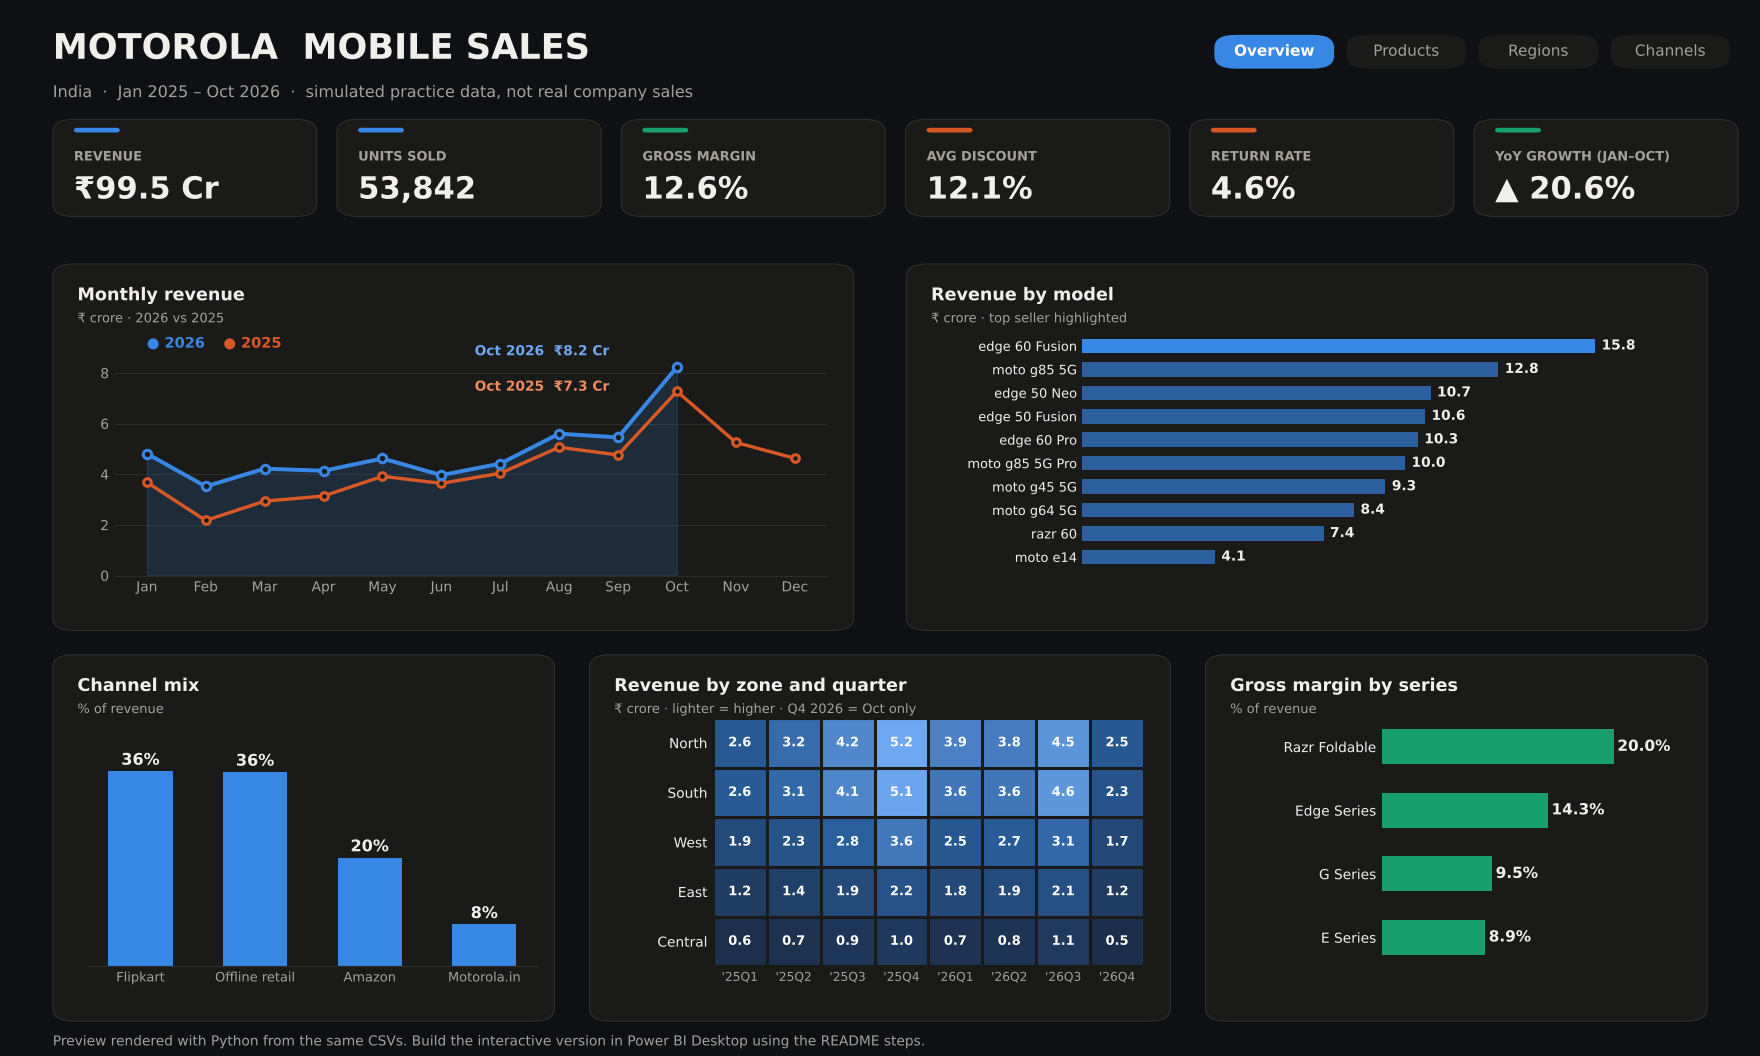
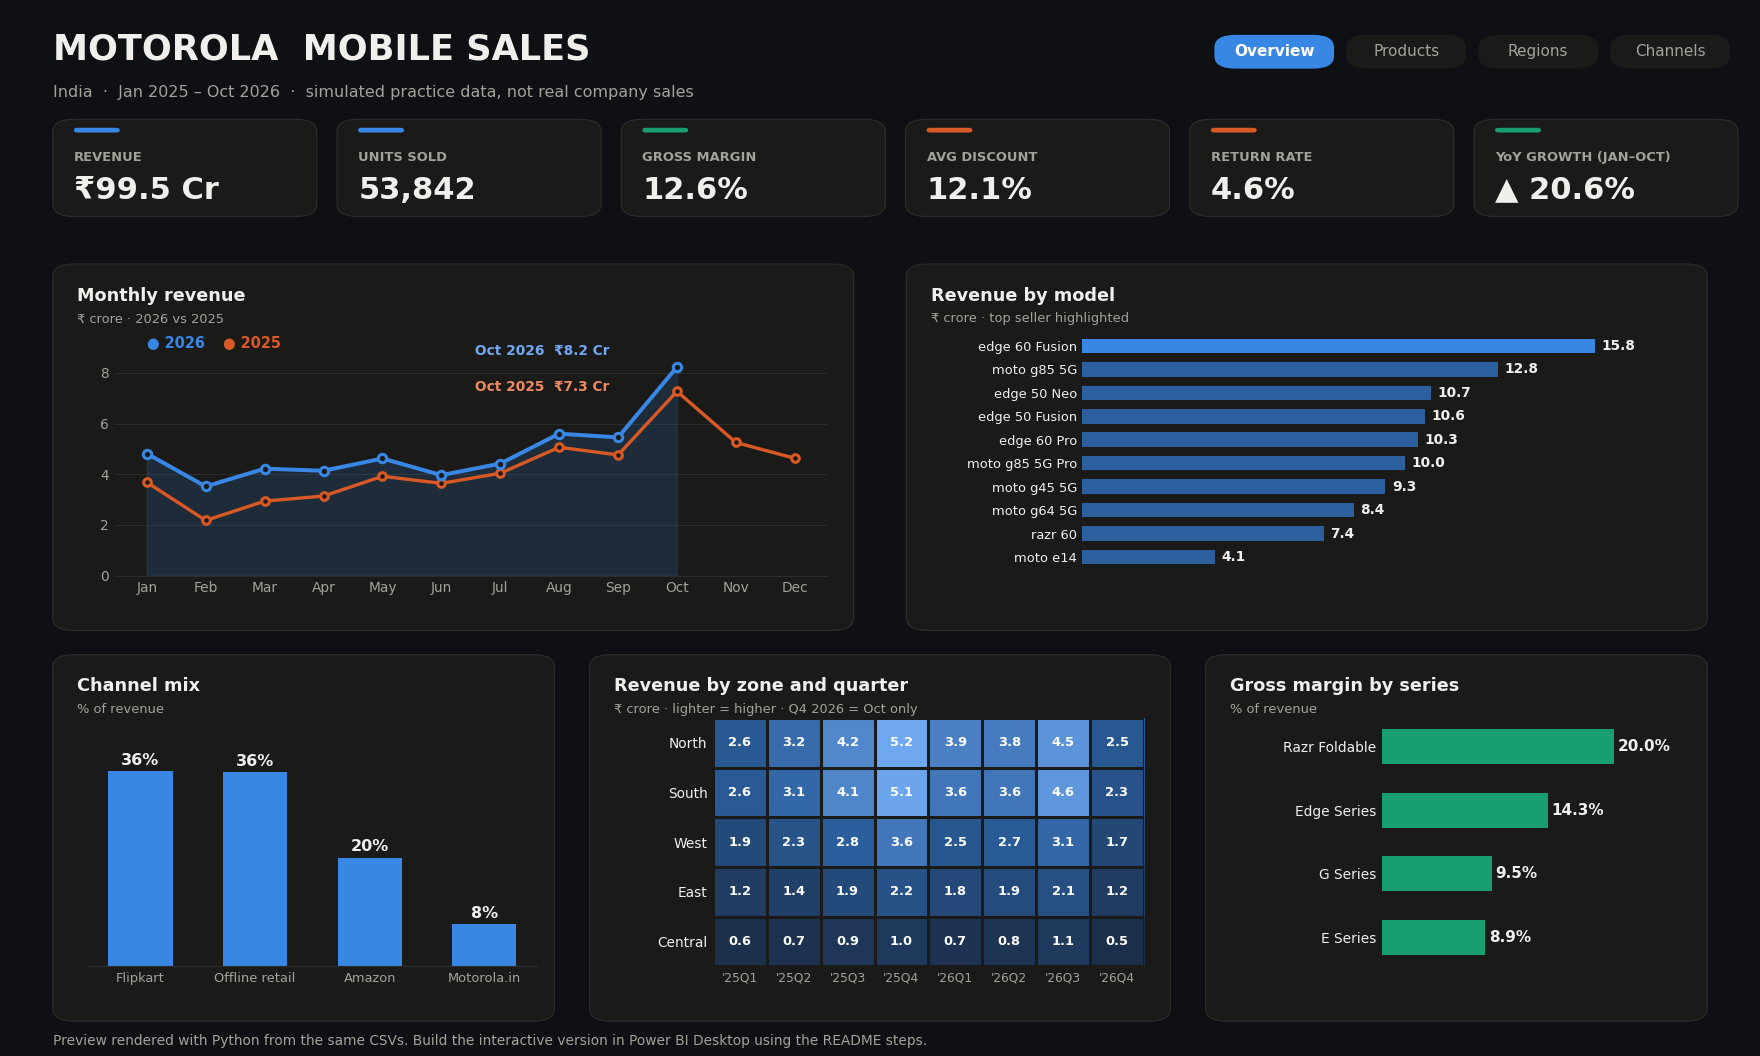
added in profile

diff --git a/README.md b/README.md
@@ -1,87 +1,88 @@
-# 📱 Motorola Mobile Sales Dashboard (Power BI)
+# 📊 Motorola Mobile Sales — Power BI Dashboard
 
-An interactive Power BI report that analyses smartphone sales across **models, regions, channels and time** for the Indian market: revenue, margin, discounting, returns and growth.
+A portfolio-ready **Power BI business intelligence project** exploring simulated smartphone sales across Indian states, product models, sales channels and time. The report is designed around executive KPIs, product performance, regional trends, pricing and returns.
 
-![Dashboard preview](docs/dashboard-preview.png)
+![Motorola Power BI dashboard preview](docs/dashboard-preview.png)
 
-> **Data note:** all data in this project is **simulated** for practice and portfolio use. It is generated by `generate_data.py` (fixed random seed, so results are repeatable). It is **not** real Motorola sales data, and model names, prices and launch dates are illustrative only. This project is not affiliated with or endorsed by Motorola.
+> **Important data disclosure:** this repository uses synthetic practice data generated by `generate_data.py`. It is not Motorola's actual sales, customer, inventory or operational data. Product names and commercial values are illustrative. This independent portfolio project is not affiliated with or endorsed by Motorola.
 
-## Business questions answered
-1. How is revenue, margin and unit volume trending, and how does this year compare with last year?
-2. Which models and series drive revenue and profit?
-3. Which regions and channels sell the most, and where do discounts and returns hurt margin?
-4. How strong is the festive-season (Oct) and sale-event (Jan / Aug) lift?
+## Dashboard pages
 
-## Key findings (from the simulated data)
-- **Revenue ₹99.5 Cr** over Jan 2025 – Oct 2026; **Jan–Oct 2026 is up 20.6%** on the same period of 2025.
-- **October is the peak**: revenue is about **2× the average of other months** (festive sales).
-- **Edge Series earns 48% of revenue**; the top seller is *edge 60 Fusion* (₹15.8 Cr).
-- **Razr foldables have the best margin (20%)** despite low volume; entry-level E series has the lowest (8.9%).
-- **Offline retail ≈ 36% of revenue** with the lowest discount (8.0%) and return rate (2.4%), while marketplaces discount ~14–15% and see 5.6–5.9% returns.
-- **North + South = ~59% of revenue**; the Central zone is the smallest (6%).
+| Page | Business view | Recommended visuals |
+|---|---|---|
+| Executive Overview | Revenue, units, gross margin, discount, returns and YoY movement | KPI cards, monthly revenue trend, top models, slicers |
+| Product Performance | Model and series contribution | Ranked bar chart, model matrix, ASP vs units scatter |
+| Regional Analysis | State and zone performance | Map/bar chart, zone-quarter heatmap, return-rate table |
+| Channel & Pricing | Channel mix, discounting and returns | Channel share, discount trend, return-rate comparison, decomposition tree |
 
-## Tech & skills shown
-Power BI Desktop · Power Query · star-schema data modelling · DAX (time intelligence, ranking, share-of-total) · data storytelling · Python (pandas / NumPy) for data generation
+## Dataset
+
+The reproducible dataset contains **48,000 simulated order lines**, 10 illustrative smartphone models, 12 Indian states, 4 sales channels and a daily calendar from January 2025 through October 2026.
+
+| File | Description |
+|---|---|
+| `data/fact_sales.csv` | Order-line fact table |
+| `data/dim_product.csv` | Product and model attributes |
+| `data/dim_region.csv` | State, zone and hub-city attributes |
+| `data/dim_channel.csv` | Sales channel attributes |
+| `data/dim_date.csv` | Calendar dimension |
+
+## Build it in Power BI Desktop
+
+1. Download and install Power BI Desktop.
+2. In **Home → Get data → Text/CSV**, import all five CSV files from `data/`.
+3. In Power Query, confirm date columns are Date type, IDs and quantities are Whole Number, and price/discount/rating columns are numeric. Select **Close & Apply**.
+4. Create the four relationships described in [`docs/data-model.md`](docs/data-model.md). Use one-to-many, single-direction relationships from dimensions to `fact_sales`.
+5. Mark `dim_date` as the date table using its `date` column. Sort `month_name` by `month_num`.
+6. Create a blank table named `_Measures`, then add the measures from [`dax/measures.dax`](dax/measures.dax) individually through **Modeling → New measure**.
+7. Build the four report pages using the page plan above. Add slicers for year, series, state/zone and channel.
+8. Apply [`docs/motorola-midnight-theme.json`](docs/motorola-midnight-theme.json) from **View → Themes → Browse for themes**.
+9. Save the report as `Motorola-Sales-Dashboard.pbix`. Add screenshots of your finished Power BI report to `docs/`.
+
+## Design system
+
+- Canvas: Midnight `#0E1014`
+- Visual cards: `#1A1A19`
+- Primary blue: `#3987E5`
+- Comparison / attention: `#D95926`
+- Positive performance: `#199E70`
+- Typography: Segoe UI
+
+## Refresh and real-time note
+
+The included CSV dataset is a **static synthetic snapshot**, not a live Motorola feed. You can regenerate it for practice with the commands below and refresh the imported tables in Power BI. For genuine near-real-time reporting, connect Power BI to an authorized operational source (such as a database, API or streaming/event source) and configure the appropriate refresh or streaming architecture. Do not present this sample as live company data.
+
+## Regenerate the sample data and preview
+
+```bash
+pip install -r requirements.txt
+python generate_data.py
+python make_preview.py
+```
 
 ## Repository structure
+
 ```text
 Motorola-Sales-PowerBI-Dashboard/
-├── data/                   # CSV files to load into Power BI
-│   ├── fact_sales.csv          # 48,000 order lines
-│   ├── dim_product.csv         # 10 models
-│   ├── dim_region.csv          # 12 states, 5 zones
-│   ├── dim_channel.csv         # 4 channels
-│   └── dim_date.csv            # calendar
-├── dax/measures.dax        # all DAX measures
+├── data/                         # CSV source tables
+├── dax/
+│   └── measures.dax              # DAX measures to add in Power BI
 ├── docs/
-│   ├── data-model.md           # relationships & columns
-│   └── dashboard-preview.png
-├── generate_data.py        # regenerates the CSVs
-├── make_preview.py         # regenerates the preview image
+│   ├── data-model.md             # Star-schema relationships
+│   ├── dashboard-preview.png     # Static preview, not a PBIX report
+│   └── motorola-midnight-theme.json
+├── generate_data.py
+├── make_preview.py
+├── requirements.txt
+├── .gitignore
 └── README.md
 ```
 
-## How to build the report (Power BI Desktop)
+## Skills demonstrated
 
-### 1. Load the data
-1. **Home → Get data → Text/CSV**, and load all five files from `data/`. Click **Transform Data** if prompted.
-2. In Power Query check the types: `order_date` and `dim_date[date]` = **Date**; `units`, `returned` = Whole number; `mrp`, `unit_price`, `unit_cost`, `discount_pct` = Decimal. Click **Close & Apply**.
-
-### 2. Build the model
-Follow [`docs/data-model.md`](docs/data-model.md): four many-to-one relationships (product, region, channel, date → `fact_sales`), then **mark `dim_date` as a date table**. Set `month_name` to sort by `month_num`.
-
-### 3. Add the measures
-Create an empty table `_Measures` (Home → Enter data), then add each measure from [`dax/measures.dax`](dax/measures.dax) via **Modeling → New measure**.
-
-### 4. Build the pages
-| Page | Visuals |
-|---|---|
-| **Overview** | KPI cards: Revenue (Crore), Units Sold, Gross Margin %, Avg Discount %, Return Rate %, Revenue YoY %. Area/line chart: Revenue by month (Legend = year). Bar: Revenue by model. Slicers: Year, Series, Zone. |
-| **Products** | Bar: Revenue and Gross Margin % by model. Scatter: Avg Selling Price vs Units (size = Revenue). Matrix: model × quarter with conditional formatting. Table: Model Rank, Revenue Share %. |
-| **Regions** | Filled map or bar by state. Matrix: zone × quarter heat map (conditional formatting, single blue colour scale). Table: state, Revenue, Revenue Share by Region %, Return Rate %. |
-| **Channels & pricing** | Column: Revenue share by channel. Line: Avg Discount % by month. Clustered bar: Return Rate % by channel. Decomposition tree: Revenue → channel → series → model. |
-
-Tips: add **tooltips** on the line chart, use **bookmarks** for a Light/Dark toggle, and use a **Drillthrough** page from model to its region/channel breakdown.
-
-### 5. Style
-Dark background `#0E1014`, cards `#1A1A19`, accent blue `#3987E5`, orange `#D95926` (comparison/risk), teal `#199E70` (margin/growth). Use one colour for magnitude charts and reserve orange for the comparison series. Import these in **View → Themes → Browse for themes** or set them manually.
-
-### 6. Publish
-**File → Save as `Motorola-Sales-Dashboard.pbix`**, then add the file and 3–4 screenshots of the real report to `docs/` and update the image links above.
-
-## Regenerate the data
-```bash
-pip install pandas numpy matplotlib
-python generate_data.py     # rewrites data/*.csv
-python make_preview.py      # rewrites docs/dashboard-preview.png
-```
-
-## Ideas to extend
-- Add a **forecast** (Analytics pane) for the next 3 months.
-- Add a **what-if parameter** for discount % to see the impact on margin.
-- Add **customer reviews** and sentiment analysis.
-- Connect to a **SQL database** instead of CSV files.
+Power BI Desktop · Power Query · DAX · dimensional/star-schema modelling · KPI design · data visualization · business analysis · Python · pandas · NumPy · data storytelling.
 
 ## Author
-**Devendra Rathod** · AI & Data Science · Python & Data Analytics
+
+**Devendra Rathod** · AI & Data Science · Python & Data Analytics  
 GitHub: [@devs901](https://github.com/devs901)

diff --git a/docs/data-model.md b/docs/data-model.md
@@ -1,39 +1,35 @@
-# Data model (star schema)
+# Data model
 
-One fact table (`fact_sales`, one row per order line) surrounded by four dimensions.
+Use a **star schema**. `fact_sales` is the central fact table; the four dimensions filter it.
 
-```
- dim_product ──┐
- dim_region  ──┼──< fact_sales >── dim_date
- dim_channel ──┘
-```
+## Relationships
 
-## Relationships (Model view → drag the key onto the matching key)
+Create these active, single-direction, one-to-many relationships:
 
-| From (many) | To (one) | Cardinality |
+| Dimension (one side) | Fact (many side) | Cardinality |
 |---|---|---|
-| fact_sales[product_id] | dim_product[product_id] | many-to-one |
-| fact_sales[region_id]  | dim_region[region_id]   | many-to-one |
-| fact_sales[channel_id] | dim_channel[channel_id] | many-to-one |
-| fact_sales[order_date] | dim_date[date]          | many-to-one |
+| `dim_product[product_id]` | `fact_sales[product_id]` | 1:* |
+| `dim_region[region_id]` | `fact_sales[region_id]` | 1:* |
+| `dim_channel[channel_id]` | `fact_sales[channel_id]` | 1:* |
+| `dim_date[date]` | `fact_sales[order_date]` | 1:* |
 
-All relationships: single direction (dimension → fact), active.
+Set cross-filter direction to **Single** (dimension → fact). Mark `dim_date` as the date table using `dim_date[date]`.
 
-Then select `dim_date` → **Table tools → Mark as date table** → choose `date`.
+## Tables
 
-## Columns
+- `fact_sales`: one row per order line; includes date and dimension keys, units, MRP, discount, selling price, unit cost, return flag and optional customer rating.
+- `dim_product`: model, series, RAM/storage variant, price band, launch date, MRP and unit cost.
+- `dim_region`: state, zone and hub city.
+- `dim_channel`: sales channel and channel type.
+- `dim_date`: continuous daily calendar from 1 Jan 2025 to 31 Oct 2026.
 
-| Table | Key columns |
-|---|---|
-| fact_sales | order_line_id, order_date, product_id, region_id, channel_id, units, mrp, discount_pct, unit_price, unit_cost, returned (0/1), customer_rating |
-| dim_product | product_id, model, variant, series, price_band, launch_date, mrp, unit_cost |
-| dim_region | region_id, state, zone, hub_city |
-| dim_channel | channel_id, channel, channel_type |
-| dim_date | date, year, month_num, month_name, month_start, year_month, quarter, weekday |
+## Power Query data types
 
-## Suggested column tweaks
+- Dates: `fact_sales[order_date]`, `dim_product[launch_date]`, `dim_date[date]`, `dim_date[month_start]` → Date.
+- Whole number: IDs, `units`, `returned`, RAM/storage, year/month/weekday numbers.
+- Decimal/fixed decimal: MRP, unit price, unit cost, discount percentage, customer rating.
 
-- `dim_date[month_name]` → **Sort by column** → `month_num`
-- `fact_sales[order_date]` → data type **Date**
-- `fact_sales[returned]` → keep as whole number (used in a measure)
-- Hide the key columns in Report view (right-click → Hide) so users pick from dimension tables.
+## Sorting
+
+Select `dim_date[month_name]` and choose **Sort by column → month_num**.
+Use `dim_date[year_month]` for chronological month axes.

diff --git a/docs/power-bi-build-checklist.md b/docs/power-bi-build-checklist.md
@@ -1,0 +1,14 @@
+# Power BI build checklist
+
+- [ ] Import all five CSV files from `data/`.
+- [ ] Confirm data types in Power Query.
+- [ ] Create four dimension-to-fact relationships.
+- [ ] Mark `dim_date` as the date table.
+- [ ] Sort month names by month number.
+- [ ] Add measures from `dax/measures.dax`.
+- [ ] Create Overview, Products, Regions, and Channels & Pricing pages.
+- [ ] Add slicers and cross-filter interactions.
+- [ ] Apply the supplied JSON theme.
+- [ ] Save `Motorola-Sales-Dashboard.pbix`.
+- [ ] Capture report screenshots and add them to `docs/`.
+- [ ] Update the README preview after the real report is built.
